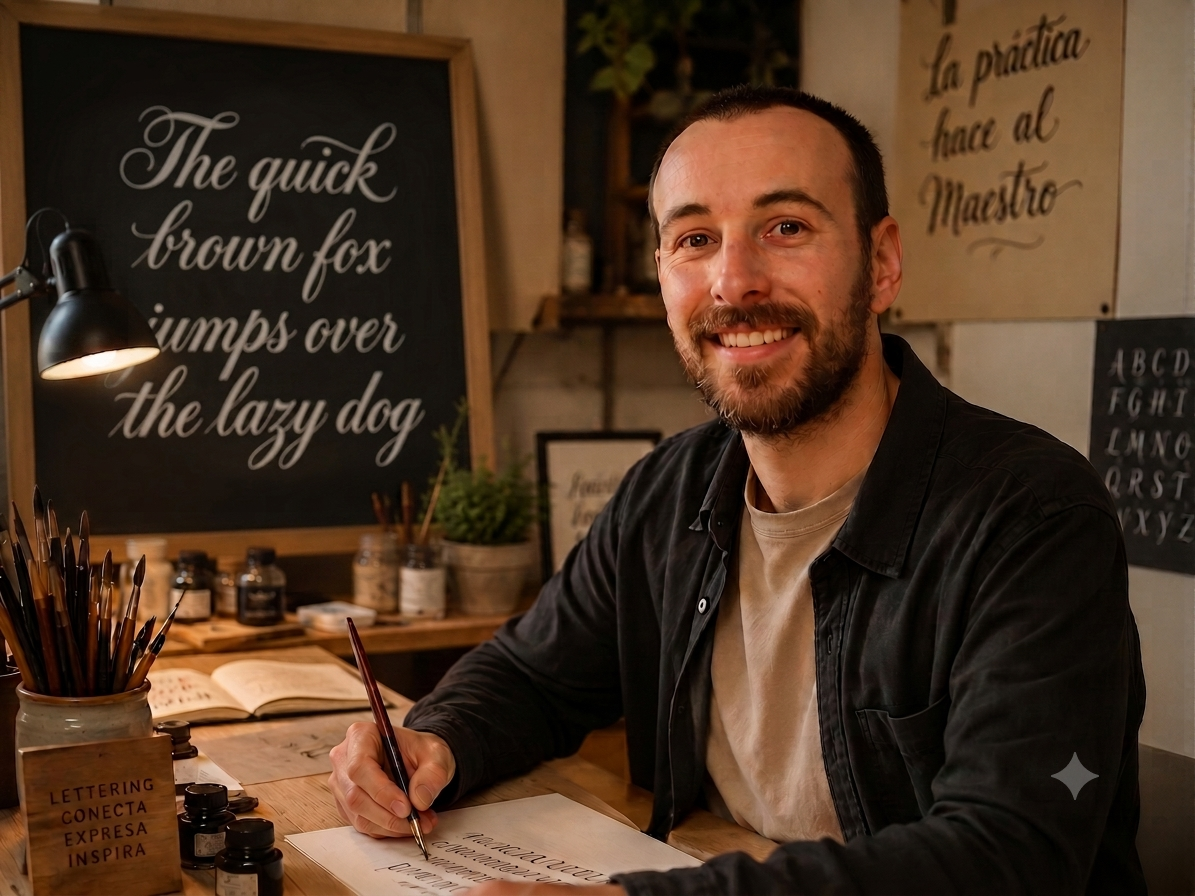
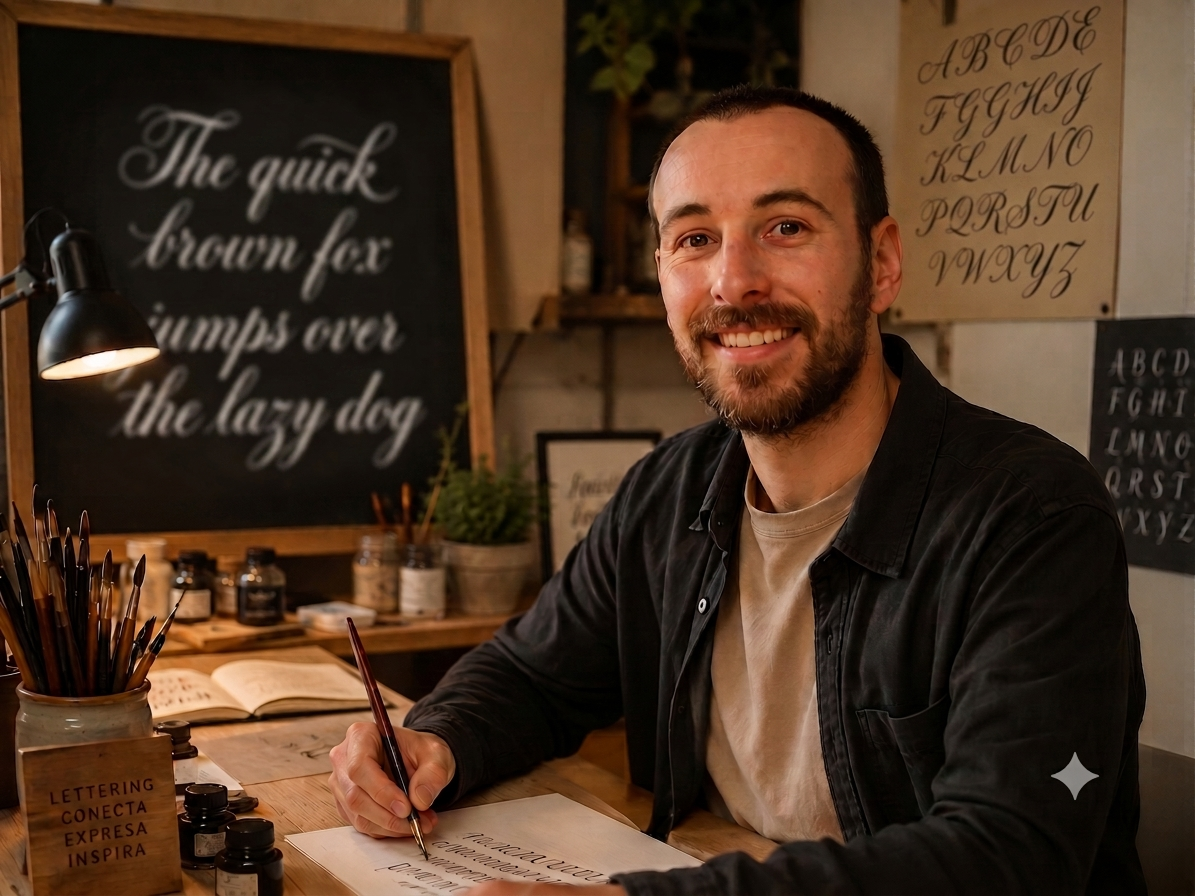
hero responsive mobile

diff --git a/src/components/Hero/Hero.module.scss b/src/components/Hero/Hero.module.scss
@@ -1,15 +1,19 @@
 .hero {
-  @include mix.flex(center, center, column);
+  @include mix.flex(center, center, column, var.$spacing-2);
   position: relative;
   width: 100%;
-  height: 50vh;
-  min-height: 320px;
+  height: auto;
+  min-height: auto;
+  padding: var.$spacing-4 0;
   overflow: hidden;
   background-color: var.$color-bg-paper;
 
-  @include mix.respond-to('md') {
+  @include mix.respond-to('sm') {
     height: 88vh;
     min-height: 500px;
+    padding: 0;
+    justify-content: center;
+    gap: 0;
   }
 }
 
@@ -17,8 +21,36 @@
   position: relative;
   width: 100%;
   max-width: 100%;
-  aspect-ratio: 397.5 / 102; // SVG viewBox ratio
   @include mix.flex(center, center);
+}
+
+.desktopWrapper {
+  display: none;
+  aspect-ratio: 397.5 / 102;
+
+  @include mix.respond-to('sm') {
+    @include mix.flex(center, center);
+  }
+}
+
+.mobileContainer {
+  width: 100%;
+  padding: 100px var.$spacing-4;
+  @include mix.flex(center, center, column, -1.5rem);
+
+  @include mix.respond-to('sm') {
+    display: none;
+  }
+}
+
+.mobileWrapperMiquel {
+  aspect-ratio: 227.858 / 70;
+  margin-top: -1rem;
+}
+
+.mobileWrapperCentellas {
+  aspect-ratio: 226.917 / 60;
+  margin-bottom: -1rem;
 }
 
 .svgImage {
@@ -40,6 +72,44 @@
   animation: writeLogo 6s linear forwards;
 }
 
+.svgImageMobileMiquel {
+  position: absolute;
+  top: 0;
+  left: 0;
+  width: 100%;
+  height: 100%;
+  -webkit-mask-image: url('/mobile-miquel-copperplate.svg');
+  mask-image: url('/mobile-miquel-copperplate.svg');
+  -webkit-mask-repeat: no-repeat;
+  mask-repeat: no-repeat;
+  -webkit-mask-position: center;
+  mask-position: center;
+  -webkit-mask-size: contain;
+  mask-size: contain;
+  background-color: var.$color-accent-gold;
+  clip-path: polygon(0% 0%, 0% 0%, 0% 100%, 0% 100%);
+  animation: writeLogo 6s linear forwards;
+}
+
+.svgImageMobileCentellas {
+  position: absolute;
+  top: 0;
+  left: 0;
+  width: 100%;
+  height: 100%;
+  -webkit-mask-image: url('/mobile-centellas-copperplate.svg');
+  mask-image: url('/mobile-centellas-copperplate.svg');
+  -webkit-mask-repeat: no-repeat;
+  mask-repeat: no-repeat;
+  -webkit-mask-position: center;
+  mask-position: center;
+  -webkit-mask-size: contain;
+  mask-size: contain;
+  background-color: var.$color-accent-gold;
+  clip-path: polygon(0% 0%, 0% 0%, 0% 100%, 0% 100%);
+  animation: writeLogo 6s linear forwards;
+}
+
 .svgImageBg {
   opacity: 0.15;
   clip-path: none !important;
@@ -49,14 +119,20 @@
 
 
 .scrollIndicator {
-  position: absolute;
-  bottom: var.$spacing-8;
+  position: relative;
+  margin-top: var.$spacing-4;
   @include mix.flex(center, center, column, var.$spacing-2);
   color: var.$color-text-sepia;
   font-size: var.$font-size-sm;
   font-family: var.$font-sans;
   opacity: 0;
   animation: fadeInIndicator 0.8s var.$ease-out 1s forwards;
+
+  @include mix.respond-to('sm') {
+    position: absolute;
+    bottom: var.$spacing-8;
+    margin-top: 0;
+  }
 
   svg {
     width: 20px;

diff --git a/src/components/Hero/Hero.jsx b/src/components/Hero/Hero.jsx
@@ -92,18 +92,45 @@ export default function Hero() {
       onMouseMove={handleMouseMove}
       onMouseLeave={handleMouseLeave}
     >
-      <div className={styles.svgWrapper}>
-        {/* Background watermark layer (15% opacity, always fully revealed) */}
+      {/* Desktop SVG Wrapper */}
+      <div className={`${styles.svgWrapper} ${styles.desktopWrapper}`}>
+        {/* Background watermark layer */}
         <div
           className={`${styles.svgImage} ${styles.svgImageBg}`}
           style={{ backgroundColor: bgColor }}
         />
-        {/* Foreground revealed layer (fully opaque, clipped dynamically) */}
+        {/* Foreground revealed layer */}
         <div
           className={styles.svgImage}
           style={svgStyle}
         />
       </div>
+
+      {/* Mobile SVG Container (break-point sm & inferior) */}
+      <div className={`${styles.mobileContainer}`}>
+        <div className={`${styles.svgWrapper} ${styles.mobileWrapperMiquel}`}>
+          <div
+            className={`${styles.svgImageMobileMiquel} ${styles.svgImageBg}`}
+            style={{ backgroundColor: bgColor }}
+          />
+          <div
+            className={styles.svgImageMobileMiquel}
+            style={svgStyle}
+          />
+        </div>
+
+        <div className={`${styles.svgWrapper} ${styles.mobileWrapperCentellas}`}>
+          <div
+            className={`${styles.svgImageMobileCentellas} ${styles.svgImageBg}`}
+            style={{ backgroundColor: bgColor }}
+          />
+          <div
+            className={styles.svgImageMobileCentellas}
+            style={svgStyle}
+          />
+        </div>
+      </div>
+
       <div className={styles.scrollIndicator} style={interactionMode === 'scroll' ? { opacity: Math.max(1 - scrollProgress * 2, 0) } : {}}>
         <span>Desplázate para explorar</span>
         <svg xmlns="http://www.w3.org/2000/svg" fill="none" viewBox="0 0 24 24" strokeWidth={2.5} stroke="currentColor">
